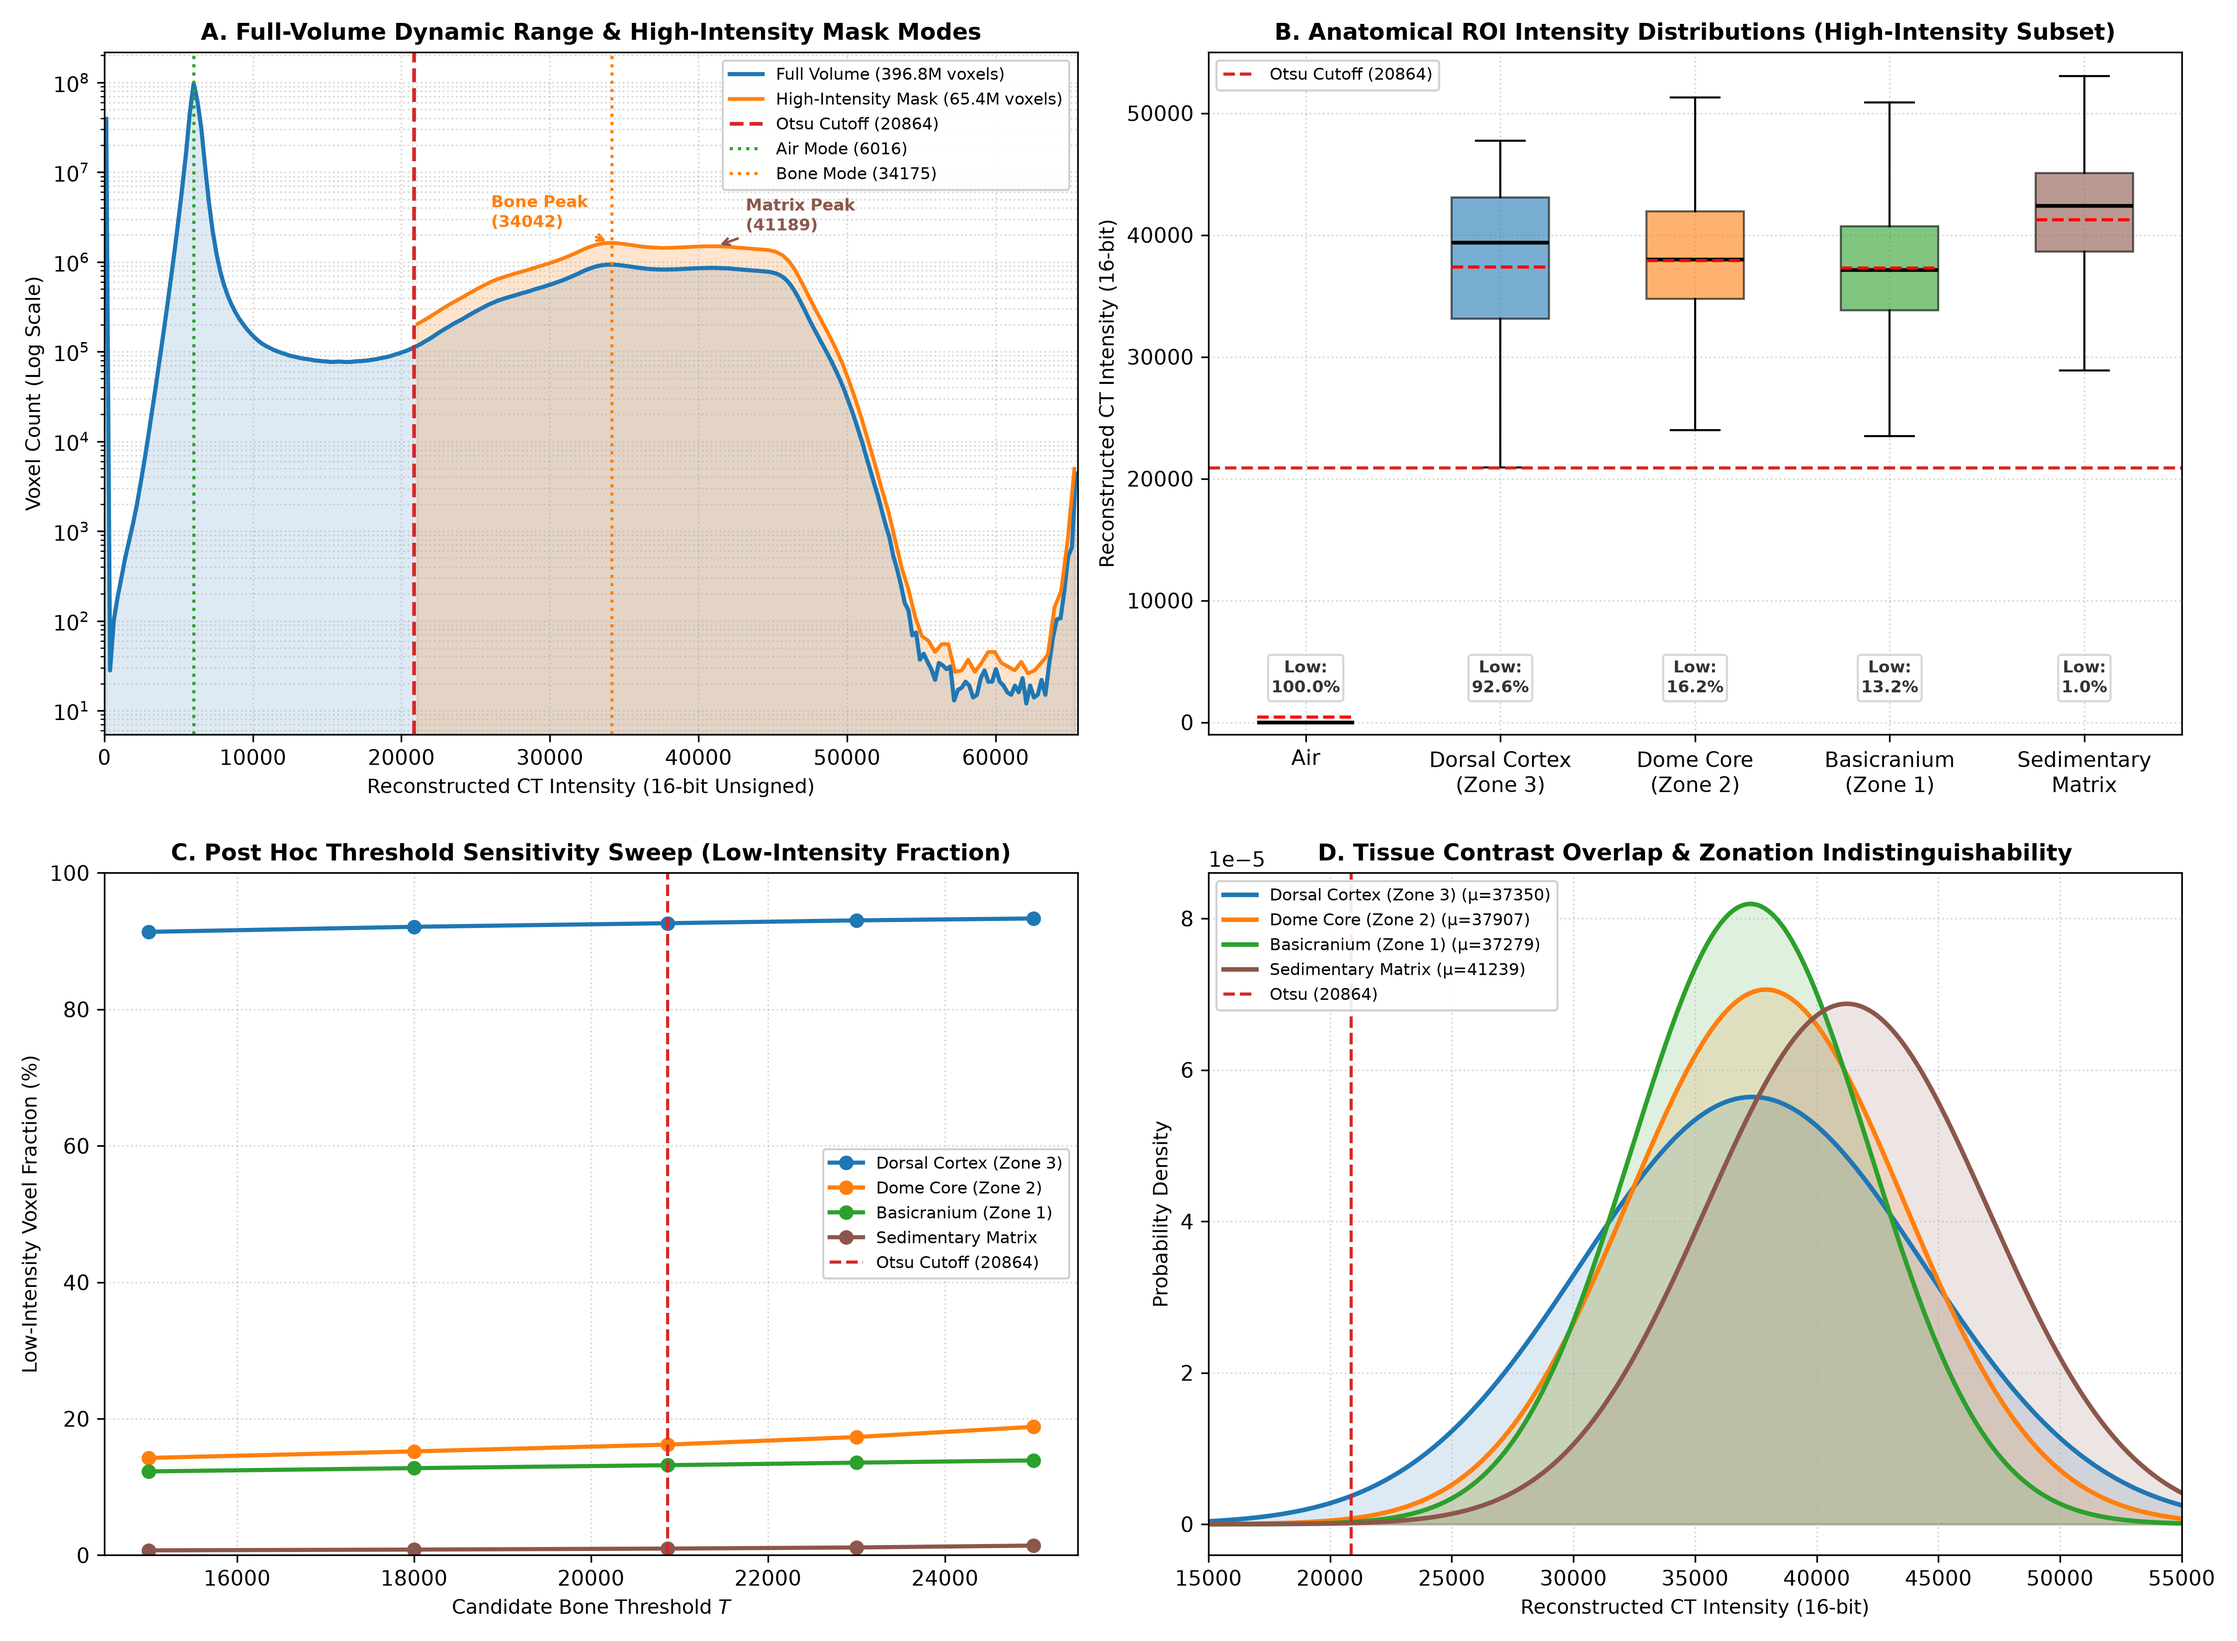
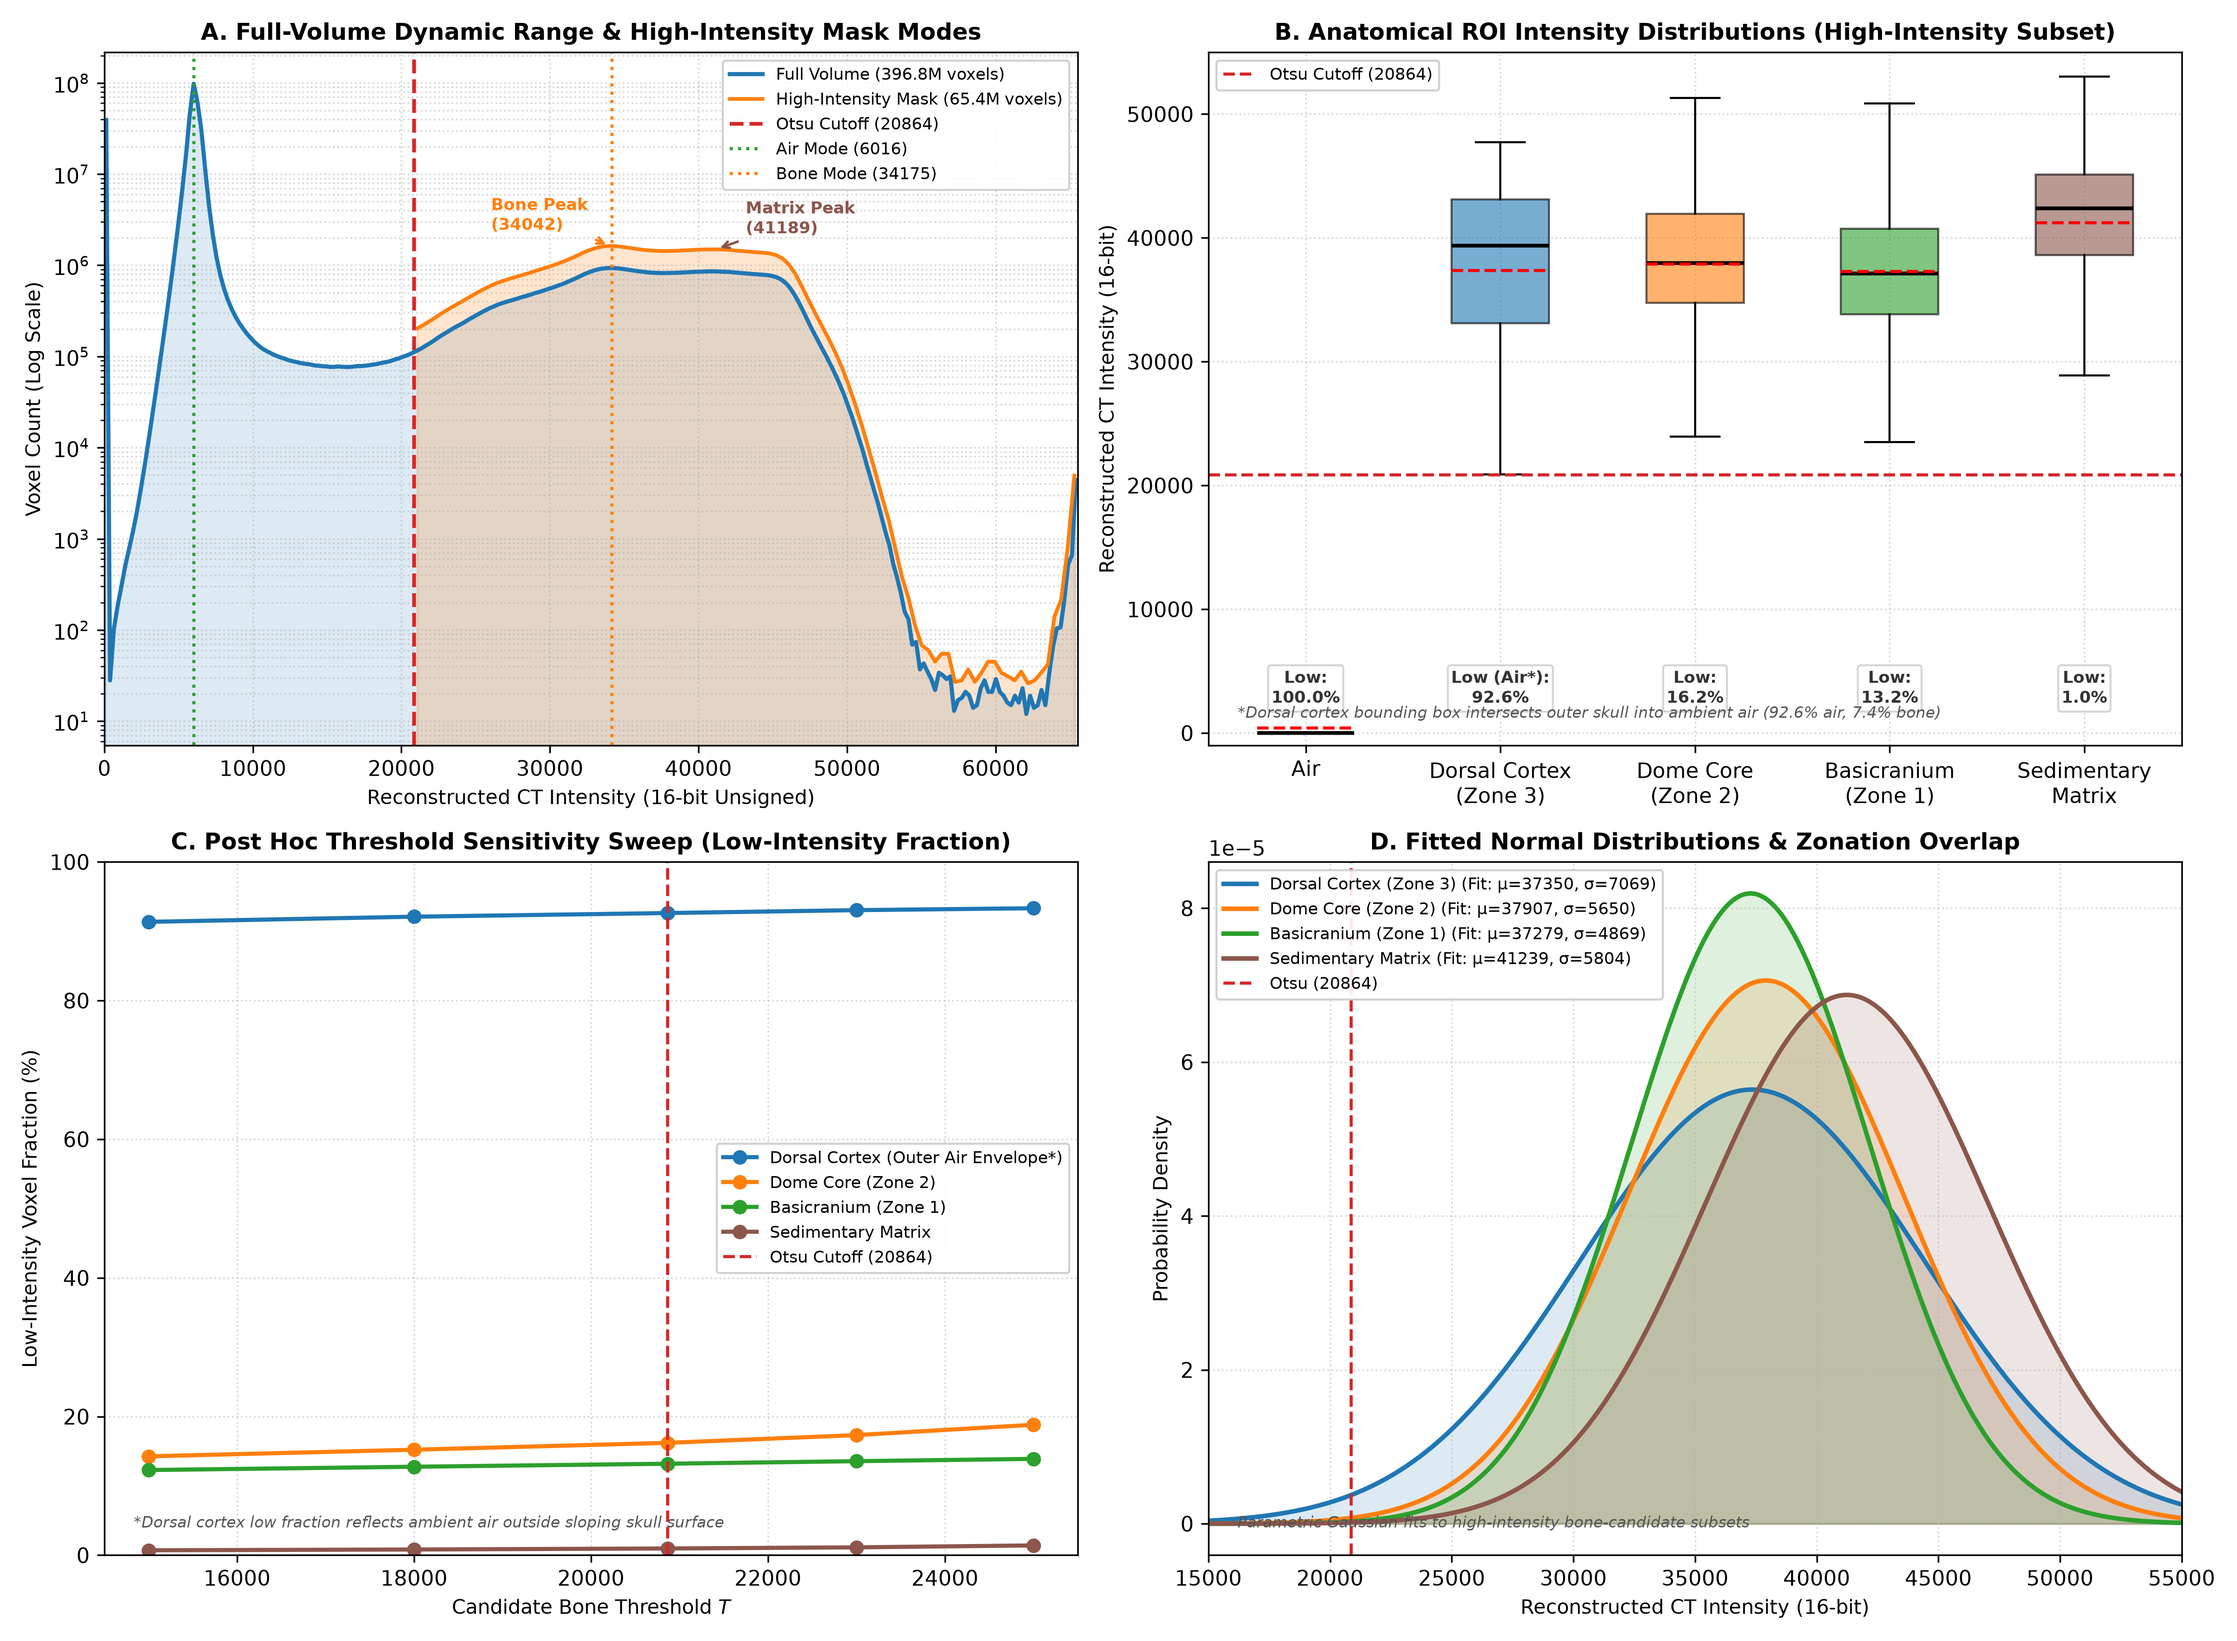
refactor(phase5): clarify dorsal cortex air envelope in Figure 13 and report
- Clarify in Figure 13 (Panels B, C) and Report (§3.4, §4.3) that the 92.6% low-intensity fraction in the dorsal cortex ROI is ambient air caused by the axis-aligned cuboid spanning across the sloping outer skull surface, not internal tissue porosity
- Update Figure 13 Panel D title, annotations, and caption to explicitly identify the curves as fitted parametric normal distributions rather than raw voxel distributions
- Regenerate Figure 13 and update metrics timestamp

diff --git a/scripts/characterize_image_semantics.py b/scripts/characterize_image_semantics.py
@@ -156,10 +156,14 @@ def plot_figure_13(
     for idx, (key, _, _) in enumerate(roi_order):
         sens_entry = threshold_sensitivity.get(key, {}).get("thresholds", {}).get(str(otsu_t), {})
         low_pct = sens_entry.get("low_intensity_fraction_pct", 0.0)
+        if key == "dorsal_cortex_zone3":
+            text_str = f"Low (Air*):\n{low_pct:.1f}%"
+        else:
+            text_str = f"Low:\n{low_pct:.1f}%"
         ax_box.text(
             idx + 1,
             2000,
-            f"Low:\n{low_pct:.1f}%",
+            text_str,
             ha="center",
             va="bottom",
             fontsize=8,
@@ -168,6 +172,15 @@ def plot_figure_13(
             bbox=dict(boxstyle="round,pad=0.2", facecolor="white", alpha=0.8, edgecolor="#cccccc"),
         )
 
+    ax_box.text(
+        0.03,
+        0.04,
+        "*Dorsal cortex bounding box intersects outer skull into ambient air (92.6% air, 7.4% bone)",
+        transform=ax_box.transAxes,
+        fontsize=7.5,
+        fontstyle="italic",
+        color="#555555",
+    )
     ax_box.set_title("B. Anatomical ROI Intensity Distributions (High-Intensity Subset)", fontsize=11, fontweight="bold")
     ax_box.set_ylabel("Reconstructed CT Intensity (16-bit)", fontsize=9.5)
     ax_box.set_ylim(-1000, 55000)
@@ -184,9 +197,20 @@ def plot_figure_13(
         t_data = threshold_sensitivity[key]["thresholds"]
         low_pcts = [t_data[str(t)]["low_intensity_fraction_pct"] for t in thresh_keys]
         clean_label = label.replace("\n", " ")
+        if key == "dorsal_cortex_zone3":
+            clean_label = "Dorsal Cortex (Outer Air Envelope*)"
         ax_sens.plot(thresh_keys, low_pcts, marker="o", lw=2, color=color, label=clean_label)
 
     ax_sens.axvline(otsu_t, color="#d62728", linestyle="--", lw=1.5, label=f"Otsu Cutoff ({otsu_t})")
+    ax_sens.text(
+        0.03,
+        0.04,
+        "*Dorsal cortex low fraction reflects ambient air outside sloping skull surface",
+        transform=ax_sens.transAxes,
+        fontsize=7.5,
+        fontstyle="italic",
+        color="#555555",
+    )
     ax_sens.set_title("C. Post Hoc Threshold Sensitivity Sweep (Low-Intensity Fraction)", fontsize=11, fontweight="bold")
     ax_sens.set_xlabel("Candidate Bone Threshold $T$", fontsize=9.5)
     ax_sens.set_ylabel("Low-Intensity Voxel Fraction (%)", fontsize=9.5)
@@ -195,7 +219,7 @@ def plot_figure_13(
     ax_sens.grid(True, linestyle=":", alpha=0.5)
 
     # -------------------------------------------------------------
-    # Panel D: Kernel Density Overlap (Zonation Indistinguishability)
+    # Panel D: Fitted Parametric Overlap (Zonation Indistinguishability)
     # -------------------------------------------------------------
     ax_kde = axes[1, 1]
     eval_range = np.linspace(15000, 55000, 300)
@@ -205,11 +229,20 @@ def plot_figure_13(
         sig = roi_stats_bone[key]["std"]
         pdf = (1.0 / (sig * np.sqrt(2 * np.pi))) * np.exp(-0.5 * ((eval_range - mu) / sig) ** 2)
         clean_label = label.replace("\n", " ")
-        ax_kde.plot(eval_range, pdf, lw=2.2, color=color, label=f"{clean_label} (μ={mu:.0f})")
+        ax_kde.plot(eval_range, pdf, lw=2.2, color=color, label=f"{clean_label} (Fit: μ={mu:.0f}, σ={sig:.0f})")
         ax_kde.fill_between(eval_range, pdf, color=color, alpha=0.15)
 
     ax_kde.axvline(otsu_t, color="#d62728", linestyle="--", lw=1.5, label=f"Otsu ({otsu_t})")
-    ax_kde.set_title("D. Tissue Contrast Overlap & Zonation Indistinguishability", fontsize=11, fontweight="bold")
+    ax_kde.text(
+        0.03,
+        0.04,
+        "Parametric Gaussian fits to high-intensity bone-candidate subsets",
+        transform=ax_kde.transAxes,
+        fontsize=7.5,
+        fontstyle="italic",
+        color="#555555",
+    )
+    ax_kde.set_title("D. Fitted Normal Distributions & Zonation Overlap", fontsize=11, fontweight="bold")
     ax_kde.set_xlabel("Reconstructed CT Intensity (16-bit)", fontsize=9.5)
     ax_kde.set_ylabel("Probability Density", fontsize=9.5)
     ax_kde.set_xlim(15000, 55000)

diff --git a/reports/phase5_gate_c_semantics_report.md b/reports/phase5_gate_c_semantics_report.md
@@ -83,10 +83,10 @@ To test the distribution structure of voxels above the primary segmentation thre
 ### 3.4 Anatomical Region-of-Interest (ROI) Sampling without Selection Bias
 To avoid the threshold-selection bias identified during peer review (where filtering `vals > otsu_threshold` prior to analysis excluded low-intensity voxels that could represent vascular/trabecular void space), five anatomical ROIs were sampled in physical coordinates, and **all sampled voxels were preserved unfiltered**:
 1. `ambient_air`: $50 \times 50 \times 50$ voxel cube in the scan field background ($n = 125,000$).
-2. `dorsal_cortex_zone3`: Bounding box $X \in [98, 112]$, $Y \in [110, 128]$, $Z \in [102, 107]\text{ mm}$ in $G_0$ ($n = 10,080$). Because this box spans the outer dome apex, it intersects both cortical bone and the ambient air envelope.
-3. `dome_core_zone2`: Deep dome core $X \in [98, 112]$, $Y \in [110, 128]$, $Z \in [75, 92]\text{ mm}$ in $G_0$ ($n = 34,272$). Positioned entirely within the cranial vault interior.
-4. `basicranium_zone1`: Dense basicranium around the occipital condyle and basioccipital $X \in [98, 112]$, $Y \in [170, 185]$, $Z \in [45, 55]\text{ mm}$ in $G_0$ ($n = 16,800$).
-5. `sedimentary_matrix`: Rock matrix fill within the endocranial cavity $X \in [98, 110]$, $Y \in [135, 155]$, $Z \in [50, 65]\text{ mm}$ in $G_0$ ($n = 28,800$).
+2. `dorsal_cortex_zone3`: Bounding box $X \in [98, 112]$, $Y \in [110, 128]$, $Z \in [102, 107]\text{ mm}$ in $G_0$ ($n = 10,080$). Because the frontoparietal dome apex is curved and slopes downward away from the summit ($Z_{\max} \approx 110.4\text{ mm}$), the outer cranial perimeter slopes below $Z = 102\text{ mm}$ over most of this $14 \times 18\text{ mm}$ footprint. Consequently, $92.6\%$ ($9,337$ voxels) of this axis-aligned box lies in ambient air outside the cranial surface (mean $6,426.0 \pm 1680.7$, median $6,130.0$, matching the ambient air mode of $6,016$). Only $7.4\%$ ($743$ voxels) intersects the convex cap of cortical bone. This $92.6\%$ low-intensity fraction is strictly a geometric boundary sampling artifact (outer air envelope), NOT tissue-internal porosity.
+3. `dome_core_zone2`: Deep dome core $X \in [98, 112]$, $Y \in [110, 128]$, $Z \in [75, 92]\text{ mm}$ in $G_0$ ($n = 34,272$). Positioned entirely within the cranial vault interior (surrounded by bone on all sides). Its low-intensity fraction ($16.2\%$) represents internal tissue/partial-volume heterogeneity.
+4. `basicranium_zone1`: Dense basicranium around the occipital condyle and basioccipital $X \in [98, 112]$, $Y \in [170, 185]$, $Z \in [45, 55]\text{ mm}$ in $G_0$ ($n = 16,800$). Positioned entirely within dense basicranial bone (low-intensity fraction $13.2\%$).
+5. `sedimentary_matrix`: Rock matrix fill within the endocranial cavity $X \in [98, 110]$, $Y \in [135, 155]$, $Z \in [50, 65]\text{ mm}$ in $G_0$ ($n = 28,800$). Deep endocranial fill (low-intensity fraction $1.0\%$).
 
 ### 3.5 Post Hoc Threshold-Sensitivity Analysis
 To evaluate the sensitivity of tissue characterization to threshold choice without prospectively committing to a single cutoff, a post hoc threshold-sensitivity analysis was conducted during the Gate C amendment across candidate thresholds:
@@ -140,7 +140,7 @@ Histogram peak detection identifies two distinct macroscopic modes:
 The global high-intensity mask contains at least two broad intensity modes, demonstrating that a single global intensity threshold does not uniquely identify bone material. In contrast, within the frontoparietal dome bone (cortex and core), the intensity distribution is unimodal, centered at $\sim 37,000-38,000$, with no secondary bone mode.
 
 ![Figure 13](figures/figure13_ct_intensity_semantics.png)
-*Figure 13: Full-volume CT intensity semantics, tissue ROI distributions, and post hoc threshold sensitivity. (A) Full-volume 16-bit histogram showing bimodal separation between air (mode 6016) and bone/matrix (mode 34175) separated by the objective Otsu threshold (20864), with high-intensity mask distribution overlay showing cranial bone peak (34042) and matrix peak (41189). (B) Boxplots of tissue ROI distributions for high-intensity bone-candidate voxels, annotated with low-intensity fraction percentages. (C) Post hoc threshold sensitivity sweep showing low-intensity fraction across candidate thresholds $T \in [15000, 25000]$. (D) Probability density overlap demonstrating the absence of contrast between dorsal cortex (Zone 3) and dome core (Zone 2).*
+*Figure 13: Full-volume CT intensity semantics, tissue ROI distributions, and post hoc threshold sensitivity. (A) Full-volume 16-bit histogram showing bimodal separation between air (mode 6016) and bone/matrix (mode 34175) separated by the objective Otsu threshold (20864), with high-intensity mask distribution overlay showing cranial bone peak (34042) and matrix peak (41189). (B) Boxplots of tissue ROI distributions for high-intensity bone-candidate voxels, annotated with low-intensity fraction percentages (*dorsal cortex bounding box intersects outer skull into ambient air: 7.4% bone, 92.6% ambient air; internal ROIs contain true internal fractions). (C) Post hoc threshold sensitivity sweep showing low-intensity fraction across candidate thresholds $T \in [15000, 25000]$ (where dorsal cortex tracks the outer geometric air boundary, while internal ROIs track tissue-internal low-intensity fractions). (D) Fitted parametric normal distributions (Gaussian fits using mean ± std of high-intensity bone-candidate voxels) demonstrating the absence of contrast between dorsal cortex (Zone 3) and dome core (Zone 2).*
 
 ### 4.3 Anatomical ROI Statistics (Full Accounting)
 Reporting both the unfiltered sample and the high-intensity bone-candidate subset at nominal Otsu threshold ($T = 20,864$):
@@ -148,10 +148,12 @@ Reporting both the unfiltered sample and the high-intensity bone-candidate subse
 | Anatomical ROI | Total Voxels | High-Intensity ($>T$) | High % | Low Voxels ($\le T$) | Low % | High Mean $\pm$ SD | Low Mean $\pm$ SD | High SNR |
 | :--- | :--- | :--- | :--- | :--- | :--- | :--- | :--- | :--- |
 | `ambient_air` | $125,000$ | $0$ | $0.0\%$ | $125,000$ | $100.0\%$ | N/A | $423.9 \pm 1585.1$ | N/A |
-| `dorsal_cortex_zone3` | $10,080$ | $743$ | $7.4\%$ | $9,337$ | $92.6\%$ | $37,349.8 \pm 7069.4$ | $6,426.0 \pm 1680.7$ | $5.28$ |
+| `dorsal_cortex_zone3`* | $10,080$ | $743$ | $7.4\%$ | $9,337$ | $92.6\%$ | $37,349.8 \pm 7069.4$ | $6,426.0 \pm 1680.7$ | $5.28$ |
 | `dome_core_zone2` | $34,272$ | $28,717$ | $83.8\%$ | $5,555$ | $16.2\%$ | $37,907.4 \pm 5649.6$ | $9,278.0 \pm 3872.3$ | $6.71$ |
 | `basicranium_zone1` | $16,800$ | $14,583$ | $86.8\%$ | $2,217$ | $13.2\%$ | $37,279.4 \pm 4869.2$ | $7,983.6 \pm 3356.0$ | $7.66$ |
 | `sedimentary_matrix` | $28,800$ | $28,520$ | $99.0\%$ | $280$ | $1.0\%$ | $41,530.9 \pm 5002.0$ | $11,485.1 \pm 4723.3$ | $8.30$ |
+
+*\*Note on Dorsal Cortex Low-Intensity Fraction: The $92.6\%$ low-intensity fraction in `dorsal_cortex_zone3` represents ambient air ($9,337$ voxels with mean $6,426.0 \pm 1680.7$, matching the ambient air mode of $6,016$) caused by the axis-aligned sampling box ($Z \in [102, 107]\text{ mm}$) spanning across the sloping outer skull boundary into ambient space. It must not be interpreted as internal bone porosity. By contrast, `dome_core_zone2` is located entirely within the deep cranial vault, where its $16.2\%$ low-intensity fraction ($5,555$ voxels, mean $9,278.0 \pm 3872.3$) reflects true internal tissue/partial-volume heterogeneity.*
 
 ### 4.4 Post Hoc Threshold-Sensitivity Analysis (Low-Intensity Fractions & Separability)
 Evaluating the sensitivity of bone-candidate moments and low-intensity fractions across the candidate threshold range:
